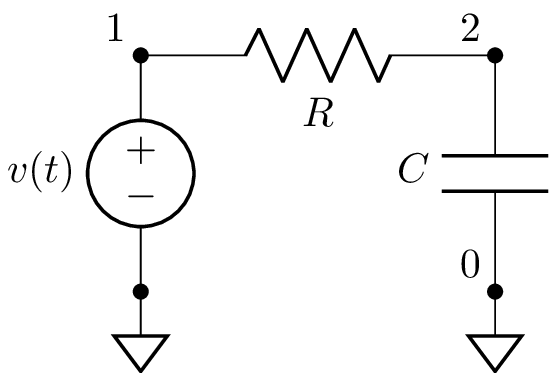
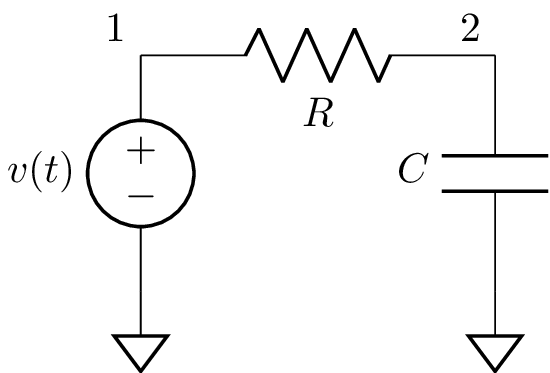
Update schematic docs

diff --git a/doc/schematics.rst b/doc/schematics.rst
@@ -8,8 +8,8 @@ Schematics
 Introduction
 ============
 
-High quality schematics can be generated from a netlist using
-Circuitikz for LaTeX diagrams.  This is much easier than writing
+Lcapy can generate high quality schematics from a netlist using
+the Circuitikz LaTeX package.  This is much easier than writing
 Circuitikz commands directly in LaTeX.  For the fastest way to
 generate a schematic, see :ref:`schtex`.
 
@@ -29,7 +29,7 @@ Here's an example:
 
 Note, the orientation hints are appended to the netlist strings with a
 semicolon delimiter.  The drawing direction is with respect to the
-first node.  The component W is a wire.  Node names starting with an underscore are not shown.
+first node.  The component `W` is a wire.  Node names starting with an underscore are not shown.
 
 The image generated by this netlist is:
 
@@ -42,7 +42,7 @@ Here's an example with implicit ground connections added automatically:
    ... V 1 0 {v(t)}; down
    ... R 1 2; right=1.5
    ... C 2 0; down
-   ... ; autoground=true, label_ids=false""")
+   ... ; autoground=true, label_ids=false, draw_nodes=connections""")
    >>> cct.draw()
 
 .. image:: examples/schematics/schematic2.png
@@ -69,6 +69,16 @@ wires do not need unique names.
 
 .. image:: examples/schematics/voltage-divider.png
    :width: 6cm
+
+Most aspects of the schematic are configurable, such as the component style,
+size, spacing, and color.  Compare the following schematic with the one above.
+
+.. image:: examples/schematics/voltage-divider2.png
+   :width: 6cm
+
+These two schematics use the same netlist but the second one has the following configuration line::
+
+    ; draw_nodes=connections, node_spacing=3, scale=0.5, style=european, bipole label style={color=blue}
 
 
 Netlists
